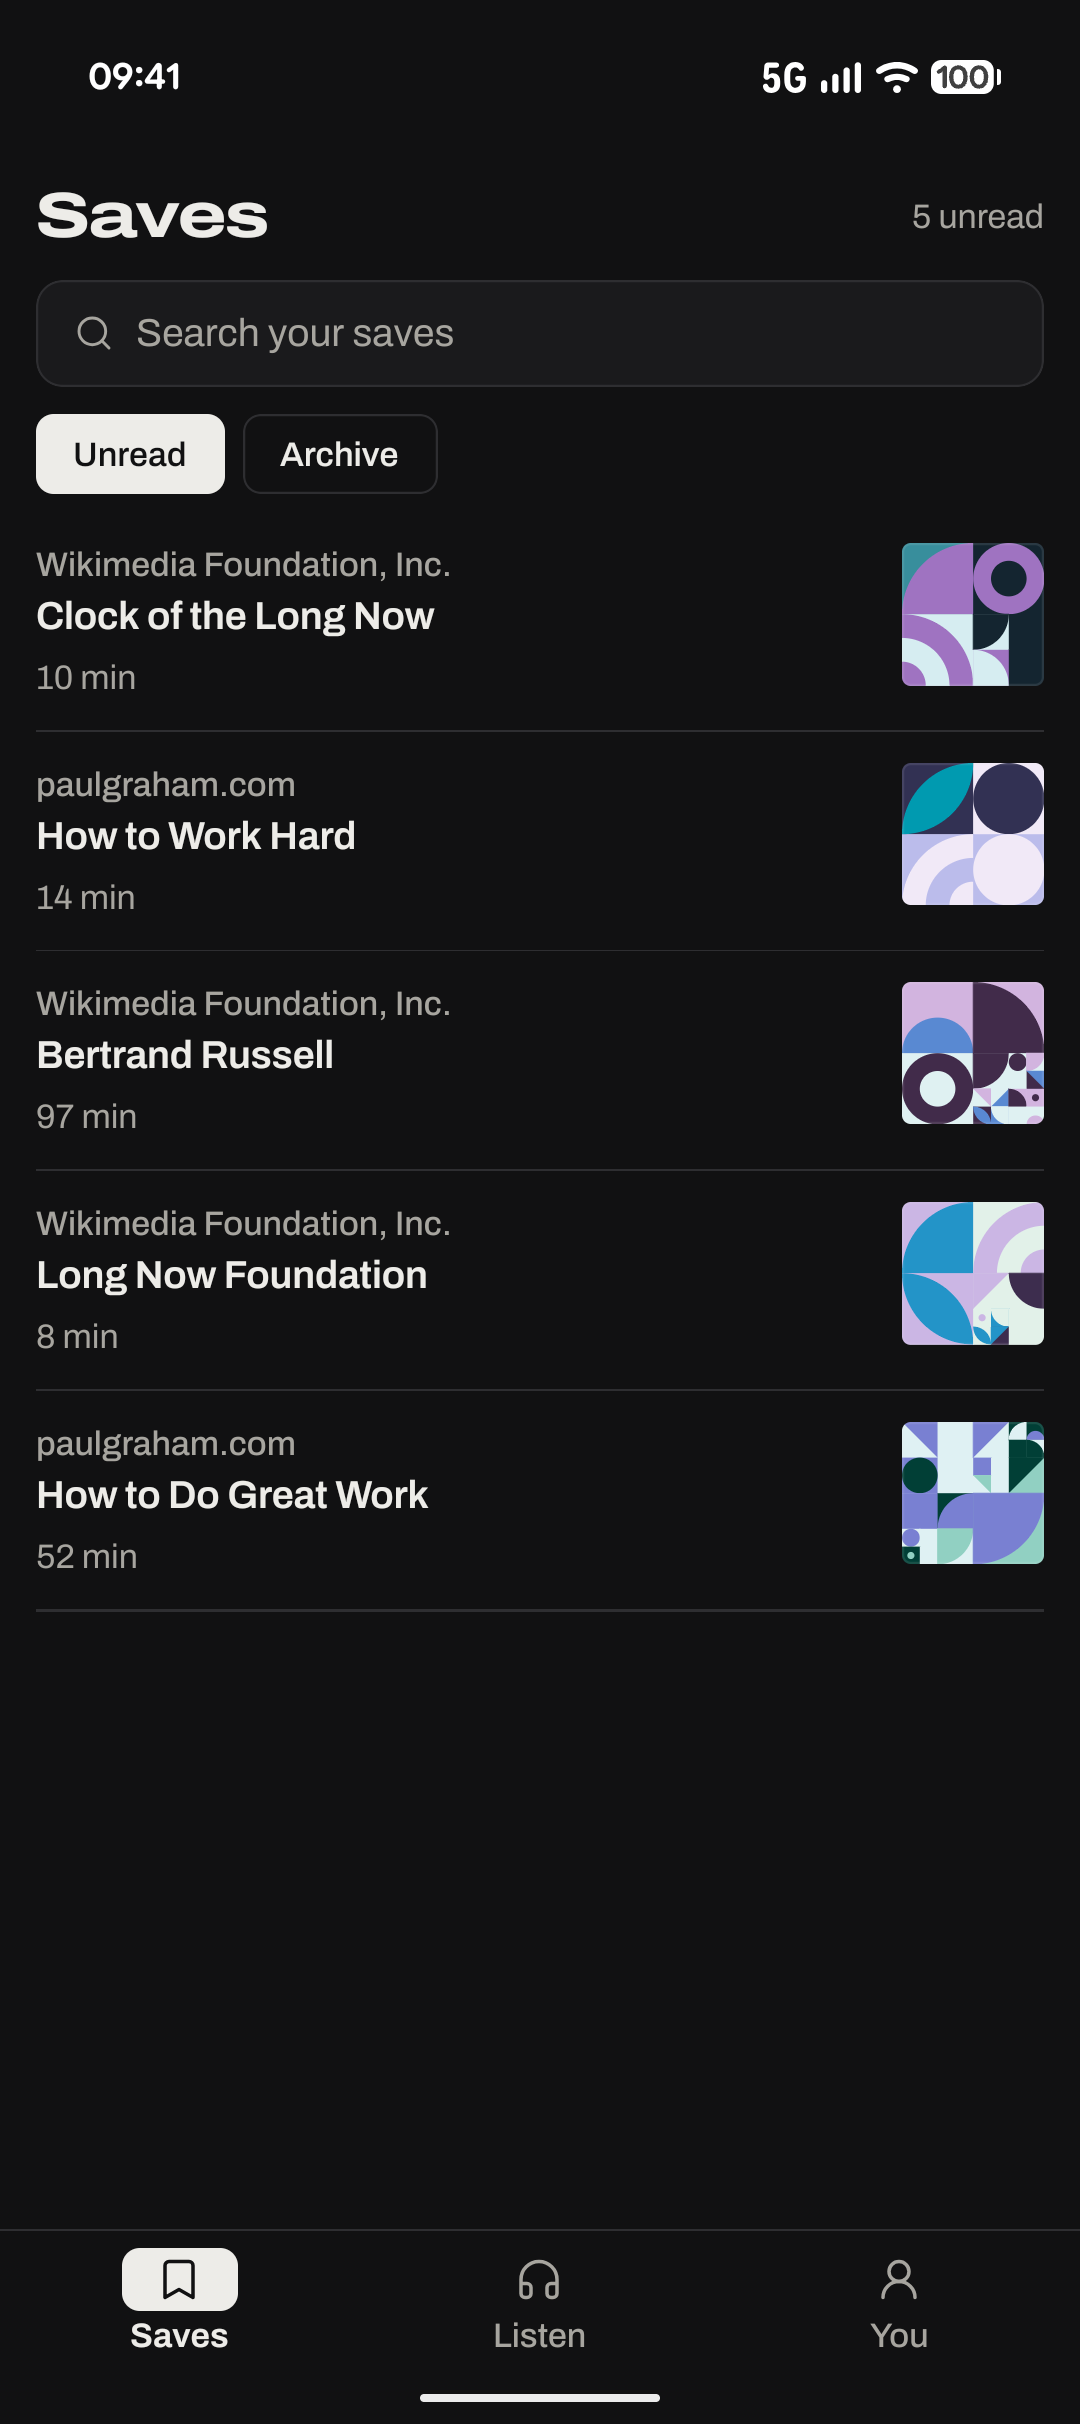
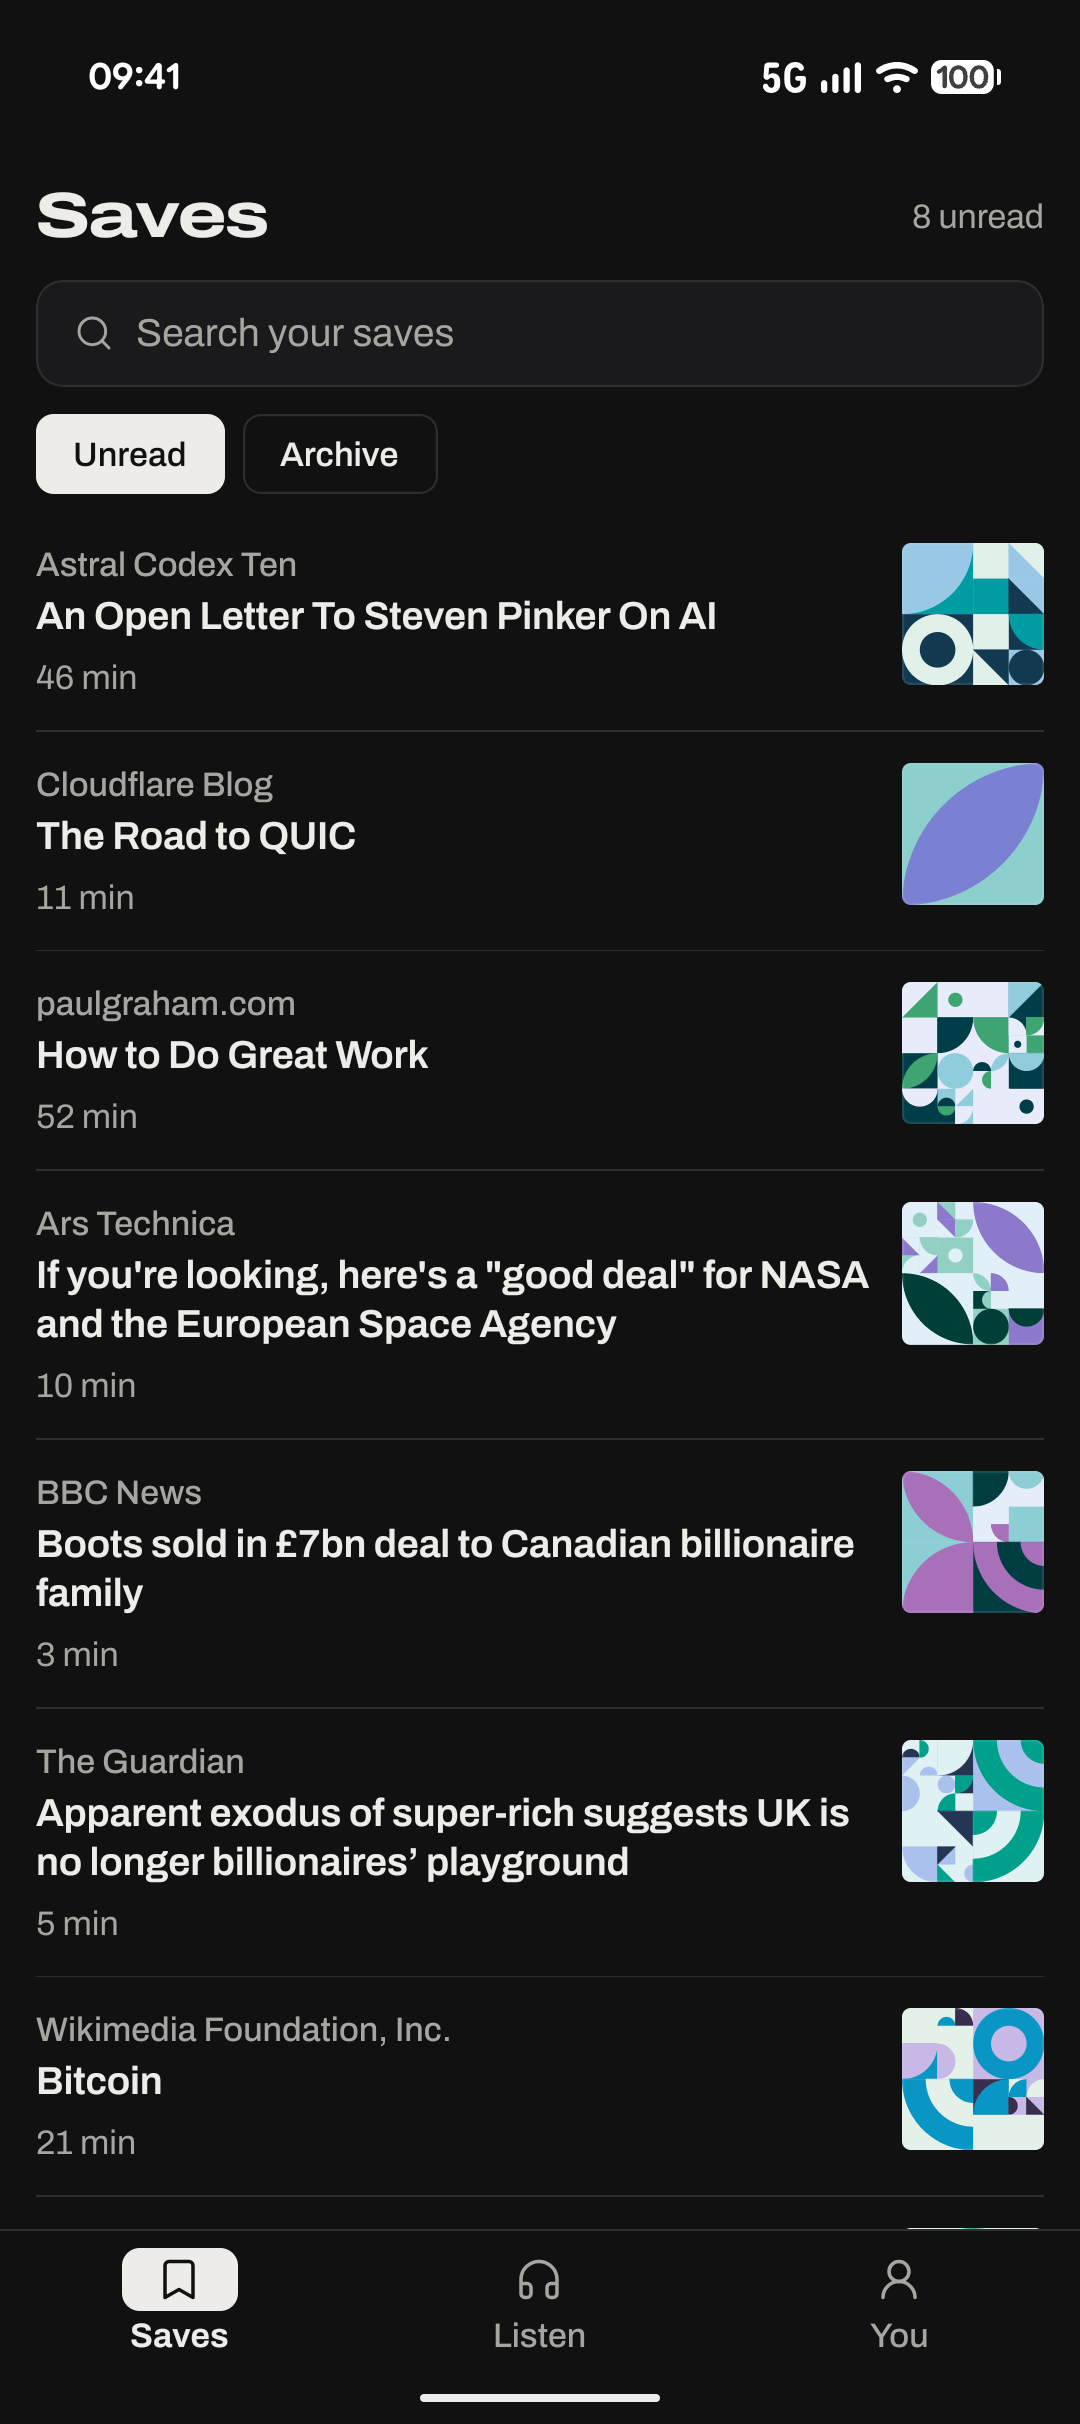
Release 1.0.0: the screenshots from the Pixel, and the day's handover
Saves, the Reader, Speed read, listening with the spoken word lit, and the Listen tab, captured from the 1.0.0 build on the Pixel 10a in Android's demo mode with the notification shade cleared; Welcome and the empty library stay from the last set. The 9:16 Play set is remade from them, and a new apps/web/scripts/app-images.mjs makes the landing page's eight WebP images in headless Chrome, as play-screenshots.mjs does its frames. The handover records the merge of PR 12, the APK build and the two install steps it needed, the background worker's checks on the Pixel, and the nine test pages shared in.

diff --git a/docs/HANDOVER.md b/docs/HANDOVER.md
@@ -180,6 +180,15 @@ The sixteen questions the reports had left under "For Richard to decide" were se
 
 Two of the sixteen were kept as known risks rather than built, and are listed under Known risks left: the address checks, which read an address as written and stay so for 1.0, and Chinese and Japanese text, which waits for 1.1.
 
+## Release 1.0.0 on the Pixel (16 October 2026)
+
+PR 12 merged to `main` as `3392388` on 16 October, after CI, the code gate (2,434 functions, none over 15) and every suite passed on its final commit. The 1.0.0 APK was built from it the same day (`apps/mobile/scripts/build-release.sh`; `dist/kefli-1.0.0.apk`, versionCode 9, target 36, sha256 `5cca691a…`), after two false starts on this machine that a fresh checkout meets too: `npm ci --ignore-scripts` leaves `expo-background-task` unresolved until it is run after the merge, and leaves Skia without its prebuilt binaries until `npm rebuild @shopify/react-native-skia`. Its manifest asks for exactly CAMERA, INTERNET, VIBRATE, FOREGROUND_SERVICE, FOREGROUND_SERVICE_MEDIA_PLAYBACK and ACCESS_NETWORK_STATE. Installed on the Pixel 10a as a fresh install:
+
+- **The background worker** (decision 119) checked: the task registered at New here with a 15-minute interval; with Kefli swiped away, WorkManager started a fresh process 30 minutes later (Android's deferral) and `kefli-background-sync` ran and finished in five seconds, re-enqueued for 15 minutes. The worker's log tags are `BackgroundTaskWork`, `BackgroundTaskScheduler`, `BackgroundTaskConsumer` and `TaskService`.
+- **Nine test pages shared** through the share activity from adb (`am start -n app.kefli/.share.ShareActivity -a android.intent.action.SEND -t text/plain --es android.intent.extra.TEXT <url>`), fifteen seconds apart: the Bitcoin white paper as a PDF, Wikipedia's Bitcoin, the Guardian, BBC News, Ars Technica, Paul Graham, Cloudflare, Astral Codex Ten and Alice in Wonderland. Saves showed eight unread at the capture; which one was still pending is to be checked.
+- **The screenshots retaken** in Android's demo mode (09:41, 5G, Wi-Fi, battery full, the notification shade cleared by hand, since demo mode doesn't hide app icons): `3-library`, `4-reader`, `5-speedread`, `6-listening` (the Paul Graham essay with the spoken word lit) and `7-listen`; `1-welcome` and `2-empty` stay from the last set, those screens being unchanged. `apps/mobile/scripts/play-screenshots.mjs` made the 9:16 set in `store/play/`, and the new `apps/web/scripts/app-images.mjs` the landing page's eight WebP images from them (`apps/web/public/media/SOURCES.md`).
+- **Still on the Pixel:** the other ten groups of the list below, and, once the server is deployed, pairing a browser and Backup space.
+
 ## For Richard to decide
 
 The sixteen questions the reports left here were settled on 15 October 2026 in flow decision 119, Richard making the six product calls and Claude the ten rulings, and built the same day (the section above). The two kept as known risks, the address checks and Chinese and Japanese text for 1.1, are listed under Known risks left.

diff --git a/apps/web/public/media/SOURCES.md b/apps/web/public/media/SOURCES.md
@@ -25,4 +25,4 @@ The crest profile in the page (`CREST`) is measured from the ridge cut and must 
 
 | File | Made from |
 |---|---|
-| `app-save-*.webp`, `app-read-*.webp`, `app-speed-*.webp`, `app-listen-*.webp` | The store screenshots in `apps/mobile/store/screenshots/` (`3-library`, `4-reader`, `5-speedread`, `6-listening`): release 0.0.1 on a Pixel 10a in Android's demo mode, with three notification icons painted out of the status bar. Scaled to 360 and 720 pixels wide as WebP. |
+| `app-save-*.webp`, `app-read-*.webp`, `app-speed-*.webp`, `app-listen-*.webp` | The store screenshots in `apps/mobile/store/screenshots/` (`3-library`, `4-reader`, `5-speedread`, `6-listening`): release 1.0.0 on a Pixel 10a in Android's demo mode, 16 October 2026, the notification shade cleared first. Scaled to 360 and 720 pixels wide as WebP by `apps/web/scripts/app-images.mjs` (headless Chrome). Rerun it after each new set. |
